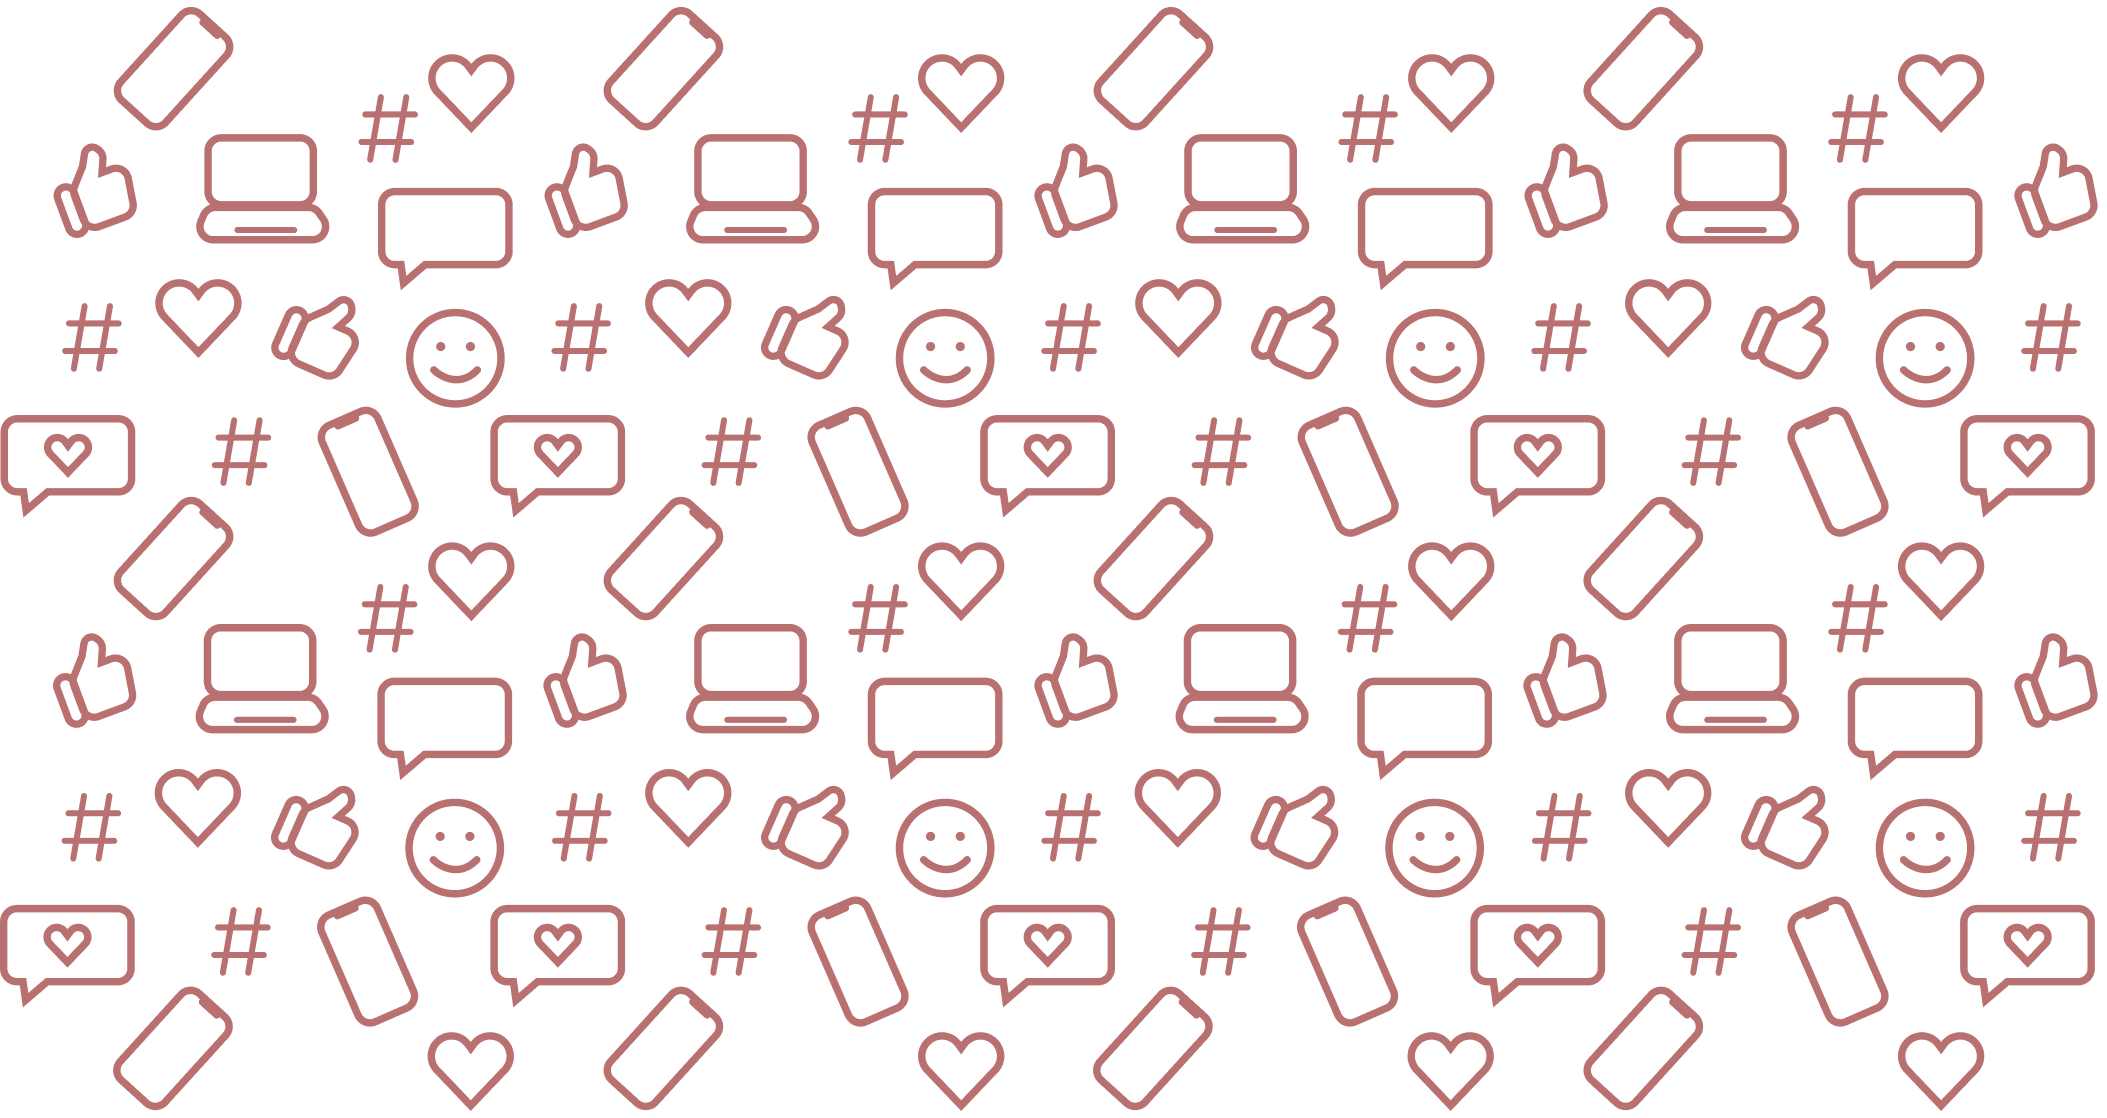
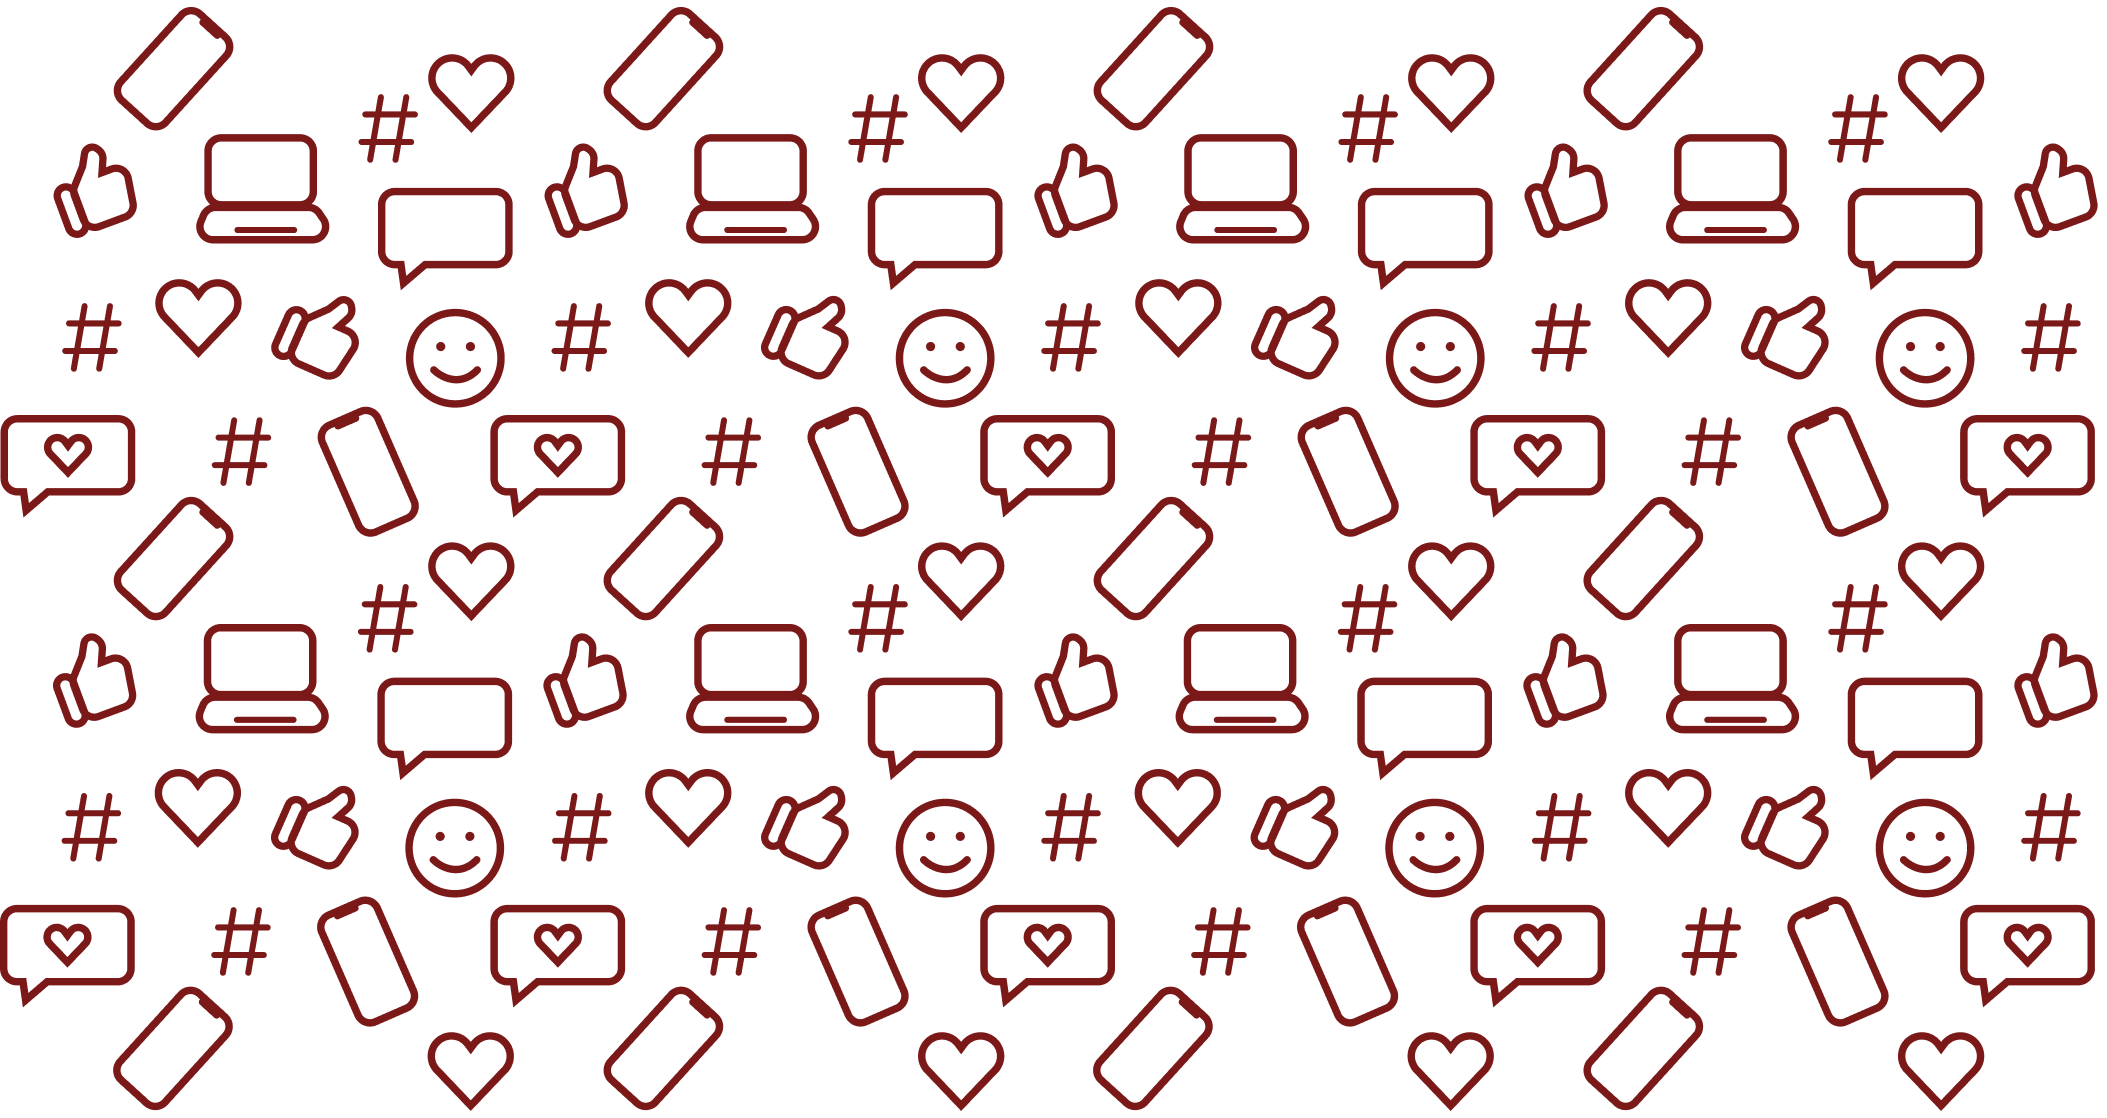
add color themes changes

diff --git a/my-app/src/utilis/theme.css b/my-app/src/utilis/theme.css
@@ -18,29 +18,29 @@
 }
 
 [data-theme="green"] {
-  --background: #b5f491;
+  --background: #47b35e;
   --background-img: url("../images/BackgroundImages/BackgroundImageGreen.png");
-  --box-shadow: #6fc948;
-  --button-bg-color: linear-gradient(90deg, #9994f3 0%, #8790d1 100%);
-  --button-bg-color-disabled: linear-gradient(90deg, #9694f3 0%, #8791d1 46%);
-  --button-before-back-disabled: rgba(77, 235, 125, 0.5);
-  --button-before-back: rgb(77, 235, 88);
-  --button-before: rgb(47, 47, 197);
-  --button-before-disabled: rgba(70, 47, 197, 0.7);
-  --stepper-color: #878cef;
+  --box-shadow: #227534;
+  --button-bg-color: linear-gradient(90deg, #db94f3 0%, #c687d1 100%);
+  --button-bg-color-disabled: linear-gradient(90deg, #db94f3 0%, #c687d1 46%);
+  --button-before-back-disabled: #50915e;
+  --button-before-back: #3d914f;
+  --button-before: rgba(159, 47, 197, 1);
+  --button-before-disabled: rgba(159, 47, 197, 0.5);
+  --stepper-color: #bf56e3;
 }
 
 [data-theme="red"] {
-  --background: #a74444;
+  --background: #811f1e;
   --background-img: url("../images/BackgroundImages/BackgroundImageRed.png");
-  --box-shadow: #c94848;
-  --button-bg-color: linear-gradient(90deg, #9ada67 0%, #69b62a 100%);
-  --button-bg-color-disabled: linear-gradient(90deg, #9ecf81 0%, #5ec365 90%);
-  --button-before-back-disabled: rgb(77 235 127 / 50%);
-  --button-before-back: rgb(95 235 77);
-  --button-before: #6a904c;
-  --button-before-disabled: #b0db8dc4;
-  --stepper-color: #9eef87;
+  --box-shadow: #531a1a;
+  --button-bg-color: linear-gradient(90deg, #db94f3 0%, #c687d1 100%);
+  --button-bg-color-disabled: linear-gradient(90deg, #db94f3 0%, #c687d1 46%);
+  --button-before-back-disabled: #460909;
+  --button-before-back: #460909;
+  --button-before: rgba(159, 47, 197, 1);
+  --button-before-disabled: rgba(159, 47, 197, 0.5);
+  --stepper-color: #bf56e3;
 }
 
 [data-theme="blue"] {
@@ -58,15 +58,15 @@
 }
 
 [data-theme="orange"] {
-  --background: #a74444;
-  --background-img: url("../images/BackgroundImages/BackgroundImageRed.png");
-  --box-shadow: #c94848;
-  --button-bg-color: linear-gradient(90deg, #9ada67 0%, #69b62a 100%);
-  --button-bg-color-disabled: linear-gradient(90deg, #9ecf81 0%, #5ec365 90%);
-  --button-before-back-disabled: rgb(77 235 127 / 50%);
-  --button-before-back: rgb(95 235 77);
-  --button-before: #6a904c;
-  --button-before-disabled: #b0db8dc4;
+  --background: #fec682;
+  --background-img: url("../images/BackgroundImages/BackgroundImageOrange.png");
+  --box-shadow: #e9932e;
+  --button-bg-color: linear-gradient(90deg, #db94f3 0%, #c687d1 100%);
+  --button-bg-color-disabled: linear-gradient(90deg, #db94f3 0%, #c687d1 46%);
+  --button-before-back-disabled: #de9034;
+  --button-before-back: #de9034;
+  --button-before: rgba(159, 47, 197, 1);
+  --button-before-disabled: rgba(159, 47, 197, 0.5);
   --stepper-color: #bf56e3;
 }
 
@@ -84,27 +84,27 @@
 }
 
 [data-theme="pink"] {
-  --background: #a74444;
-  --background-img: url("../images/BackgroundImages/BackgroundImageRed.png");
-  --box-shadow: #c94848;
-  --button-bg-color: linear-gradient(90deg, #9ada67 0%, #69b62a 100%);
-  --button-bg-color-disabled: linear-gradient(90deg, #9ecf81 0%, #5ec365 90%);
-  --button-before-back-disabled: rgb(77 235 127 / 50%);
-  --button-before-back: rgb(95 235 77);
-  --button-before: #6a904c;
-  --button-before-disabled: #b0db8dc4;
+  --background: #fec9d9;
+  --background-img: url("../images/BackgroundImages/BackgroundImagePink.png");
+  --box-shadow: #e298c5;
+  --button-bg-color: linear-gradient(90deg, #db94f3 0%, #c687d1 100%);
+  --button-bg-color-disabled: linear-gradient(90deg, #db94f3 0%, #c687d1 46%);
+  --button-before-back-disabled: #e48bc0;
+  --button-before-back: #e48bc0;
+  --button-before: rgba(159, 47, 197, 1);
+  --button-before-disabled: rgba(159, 47, 197, 0.5);
   --stepper-color: #bf56e3;
 }
 
 [data-theme="purple"] {
-  --background: #a74444;
-  --background-img: url("../images/BackgroundImages/BackgroundImageRed.png");
-  --box-shadow: #c94848;
-  --button-bg-color: linear-gradient(90deg, #9ada67 0%, #69b62a 100%);
-  --button-bg-color-disabled: linear-gradient(90deg, #9ecf81 0%, #5ec365 90%);
-  --button-before-back-disabled: rgb(77 235 127 / 50%);
-  --button-before-back: rgb(95 235 77);
-  --button-before: #6a904c;
-  --button-before-disabled: #b0db8dc4;
+  --background: #4e53d6;
+  --background-img: url("../images/BackgroundImages/BackgroundImagePurple.png");
+  --box-shadow: #1c1f70;
+  --button-bg-color: linear-gradient(90deg, #db94f3 0%, #c687d1 100%);
+  --button-bg-color-disabled: linear-gradient(90deg, #db94f3 0%, #c687d1 46%);
+  --button-before-back-disabled: #1c1f70;
+  --button-before-back: #1c1f70;
+  --button-before: rgba(159, 47, 197, 1);
+  --button-before-disabled: rgba(159, 47, 197, 0.5);
   --stepper-color: #bf56e3;
 }

diff --git a/my-app/src/components/Stepper/Stepper.js b/my-app/src/components/Stepper/Stepper.js
@@ -1,40 +1,11 @@
 import React from "react";
 import Heart from "../../images/Stepper/Heart.svg";
-import HeartActiveBlue from "../../images/Stepper/HeartActiveBlue.svg";
-import HeartActiveGreen from "../../images/Stepper/HeartActiveGreen.svg";
-import HeartActive from "../../images/Stepper/HeartActive.svg";
+import HeartActiveDefault from "../../images/Stepper/HeartActive.svg";
 import Goal from "../../images/Stepper/Goal.svg";
 
 import "./Stepper.css";
 
 const Stepper = ({ currentStep, totalSteps }) => {
-  const theme =
-    document.documentElement.getAttribute("data-theme") || "default";
-  console.log("Theme", document.documentElement.getAttribute("data-theme"));
-
-  const getActiveHeart = () => {
-    switch (theme) {
-      case "default":
-        return HeartActive;
-      case "green":
-        return HeartActiveBlue;
-      case "red":
-        return HeartActiveGreen;
-      case "blue":
-        return HeartActive;
-      case "orange":
-        return HeartActive;
-      case "yellow":
-        return HeartActive;
-      case "pink":
-        return HeartActive;
-      case "purple":
-        return HeartActive;
-      default:
-        return HeartActive;
-    }
-  };
-
   return (
     <div className="stepper">
       {[...Array(totalSteps)].map((_, index) => (
@@ -45,14 +16,22 @@ const Stepper = ({ currentStep, totalSteps }) => {
           }`}>
           <div className="icon">
             {index + 1 < currentStep ? (
-              <img src={getActiveHeart()} alt={`Step ${index + 1}`} />
+              <img
+                src={HeartActiveDefault}
+                alt={`Step ${index + 1}`}
+                style={{ width: "42px", height: "41px" }}
+              />
             ) : index + 1 === totalSteps ? (
-              <img src={Goal} alt={`Step ${index + 1}`} />
+              <img
+                src={Goal}
+                alt={`Step ${index + 1}`}
+                style={{ width: "59px", height: "44px" }}
+              />
             ) : (
               <img
                 src={Heart}
                 alt={`Step ${index + 1}`}
-                style={{ width: "51px", height: "49px" }}
+                style={{ width: "42px", height: "37px" }}
               />
             )}
             {index > 0 && (

diff --git a/my-app/src/pages/UnitOne/FrameOne.js b/my-app/src/pages/UnitOne/FrameOne.js
@@ -132,7 +132,6 @@ export default function FrameOne() {
       setCount(0);
       const nextStep = currentStep + 1;
       navigate(`/frameone/${unitId}/step${nextStep}`);
-      // }
     }, 300);
   };
 
@@ -152,13 +151,17 @@ export default function FrameOne() {
   const handleEndUnit = () => {
     navigate(`/hub`);
   };
+  console.log("UNIT", unitId);
 
   const handleGoToResult = () => {
     units[unitId].topic = currentUnitData.topic;
     units[unitId].done = true;
     localStorage.setItem("UnitsArray", JSON.stringify(units));
-    navigate(`/finishedGame/step1`);
-    //navigate(`/result/${unitId}/step1`);
+    if (unitId === "unit1") {
+      setOpenBox(true);
+    } else {
+      navigate(`/finishedGame/step1`);
+    }
   };
 
   return (

diff --git a/my-app/src/components/Button/CustomButton.css b/my-app/src/components/Button/CustomButton.css
@@ -173,8 +173,8 @@ button.TertiaryButton:disabled:active {
 button.QuaternaryButton {
   background: white url(../../images/CrossButton.svg) center/contain no-repeat;
   background-size: 50%;
-  width: 65px;
-  height: 65px;
+  width: 58px;
+  height: 58px;
   padding: 0;
   margin: 0 0 0 30px;
   border-radius: 20px;

diff --git a/my-app/src/components/PhoneSimulator/UserProfile/UserProfile.css b/my-app/src/components/PhoneSimulator/UserProfile/UserProfile.css
@@ -91,7 +91,7 @@
 
 .UserProfileContainer .BottombarContainer {
   position: absolute;
-  bottom: 44px;
+  bottom: 50px;
 }
 
 .ImageScrollContainer {
@@ -102,7 +102,7 @@
   z-index: 999;
   position: absolute;
   left: 518px;
-  top: 111px;
+  top: 107px;
   color: white;
   margin: 0 15px;
 }

diff --git a/my-app/src/pages/UnitOne/FrameOne.css b/my-app/src/pages/UnitOne/FrameOne.css
@@ -30,7 +30,7 @@
   display: flex;
   justify-content: space-between;
   padding: 0;
-  margin: -35px 38px;
+  margin: -35px 70px;
 }
 
 .answerContainer {

diff --git a/my-app/src/components/Stepper/Stepper.css b/my-app/src/components/Stepper/Stepper.css
@@ -12,7 +12,7 @@
 
 .line {
   position: absolute;
-  height: 10px;
+  height: 7px;
   width: 232px;
   background-color: rgb(255 255 255);
   top: 34%;

diff --git a/my-app/src/components/PhoneSimulator/MyProfil/MyProfil.css b/my-app/src/components/PhoneSimulator/MyProfil/MyProfil.css
@@ -66,5 +66,5 @@
 
 .BottombarContainer {
   position: absolute;
-  bottom: 44px;
+  bottom: 50px;
 }
